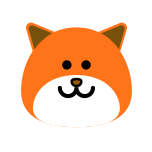
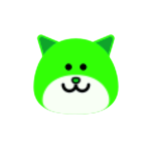
Manifest time

diff --git a/index.html b/index.html
@@ -5,16 +5,20 @@
     <meta charset="UTF-8" />
     <link rel="stylesheet" href="/src/assets/style.css" />
     <meta name="viewport" content="width=device-width, initial-scale=1.0" />
-    <link rel="apple-touch-icon" sizes="180x180" href="/manifest/apple-touch-icon.png">
-    <link rel="icon" type="image/png" sizes="32x32" href="/manifest/favicon-32x32.png">
-    <link rel="icon" type="image/png" sizes="16x16" href="/manifest/favicon-16x16.png">
-    <link rel="manifest" href="/manifest/manifest.webmanifest">
-    <link rel="mask-icon" href="/manifest/safari-pinned-tab.svg" color="#ff7432">
-    <link rel="shortcut icon" href="/favicon.ico">
+    <link rel="apple-touch-icon" sizes="180x180" href="/manifest/apple-touch-icon.png?v2=true">
+    <link rel="icon" type="image/png" sizes="32x32" href="/manifest/favicon-32x32.png?v2=true">
+    <link rel="icon" type="image/png" sizes="194x194" href="/manifest/favicon-194x194.png?v2=true">
+    <link rel="icon" type="image/png" sizes="192x192" href="/manifest/android-chrome-192x192.png?v2=true">
+    <link rel="icon" type="image/png" sizes="16x16" href="/manifest/favicon-16x16.png?v2=true">
+    <link rel="manifest" href="/manifest/site.webmanifest?v2=true">
+    <link rel="mask-icon" href="/manifest/safari-pinned-tab.svg?v2=true" color="#3fff00">
+    <link rel="shortcut icon" href="/manifest/favicon.ico?v2=true">
     <meta name="apple-mobile-web-app-title" content="BetterMeower">
     <meta name="application-name" content="BetterMeower">
-    <meta name="msapplication-TileColor" content="#ff7432">
-    <meta name="msapplication-TileImage" content="/manifest/mstile-144x144.png">
+    <meta name="msapplication-TileColor" content="#3fff00">
+    <meta name="msapplication-TileImage" content="/manifest/mstile-144x144.png?v2=true">
+    <meta name="msapplication-config" content="/manifest/browserconfig.xml?v2=true">
+    <meta name="theme-color" content="#ffffff">
     <title>BetterMeower</title>
 </head>
 
